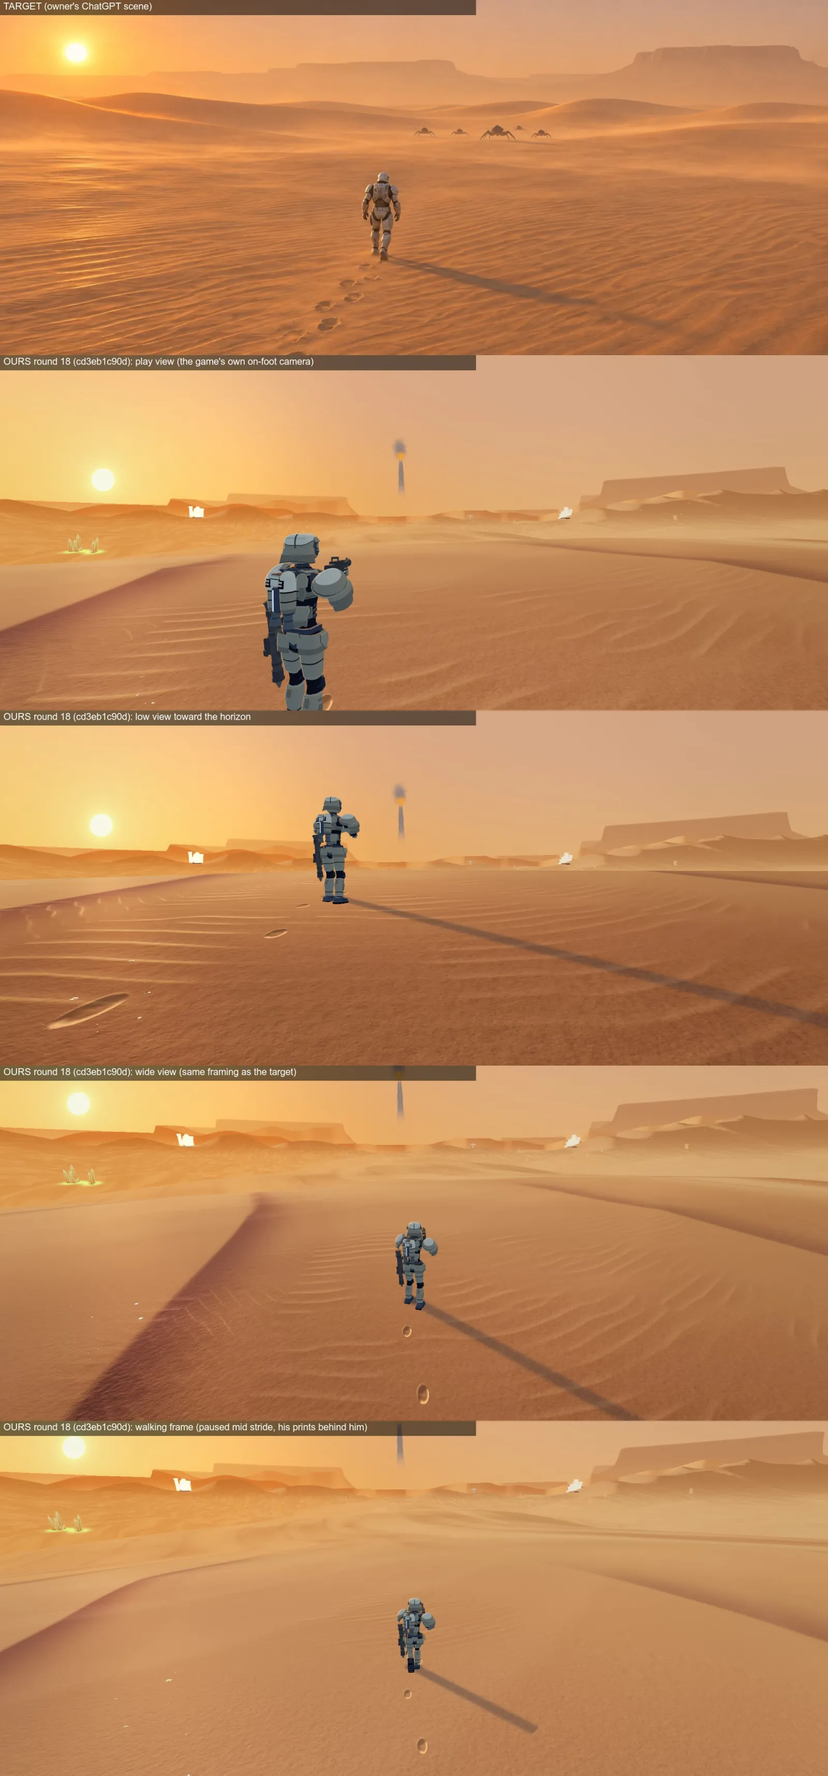
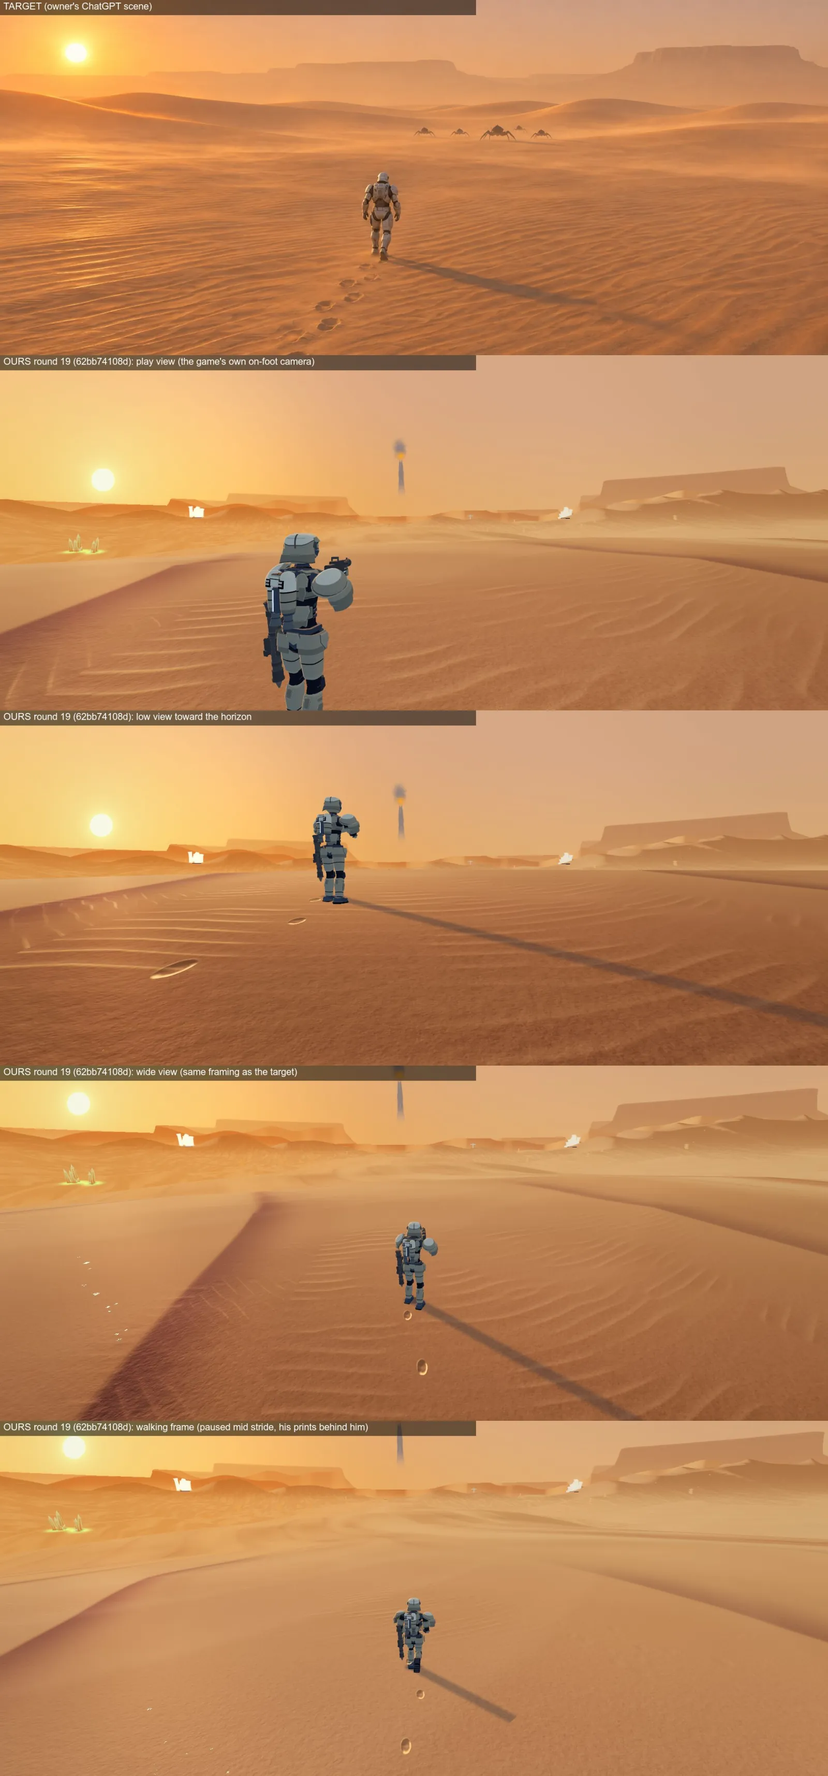
review page v195: Steel Tide: to review

diff --git a/d/steel-tide-clips-bb00109a/index.html b/d/steel-tide-clips-bb00109a/index.html
@@ -4,8 +4,8 @@
 <style>body{margin:0;background:#0d1117;color:#e6edf3;font:16px/1.5 -apple-system,system-ui,sans-serif}main{max-width:900px;margin:0 auto;padding:16px}h1{font-size:20px;margin:8px 0 4px}h2{font-size:17px;margin:34px 0 6px}p{margin:4px 0 10px;color:#9da7b3;font-size:14px}video,img{width:100%;height:auto;background:#000;border-radius:6px;display:block;margin-top:6px}a.b{display:inline-block;margin:8px 8px 0 0;padding:10px 14px;border:1px solid #3d444d;border-radius:6px;color:#e6edf3;text-decoration:none;font-size:14px}.t{font-size:12px;font-weight:400;color:#0d1117;background:#9da7b3;border-radius:10px;padding:2px 8px;margin-left:6px;vertical-align:middle}p.d{color:#7cb7ff;font-size:13px;margin:0 0 6px}nav small{color:#9da7b3;margin-left:6px}p b{color:#e6edf3}nav a{display:block;padding:7px 0;color:#7cb7ff;text-decoration:none;font-size:14px;border-bottom:1px solid #21262d}a.z{display:block;cursor:zoom-in}p.h{font-size:12px;margin:2px 0 8px}#lb{position:fixed;inset:0;background:#000;z-index:9;overflow:auto;display:none;cursor:zoom-in}#lb.on{display:block}#lb img{width:100%;height:100%;object-fit:contain;margin:0;border-radius:0;background:#000}#lb.big{cursor:zoom-out}#lb.big img{width:auto;height:auto;max-width:none;object-fit:none}#lbx{position:fixed;top:10px;right:14px;z-index:10;display:none;font:600 15px system-ui;color:#fff;background:#21262d;border:1px solid #3d444d;border-radius:6px;padding:8px 12px;cursor:pointer}#lb.on+#lbx{display:block}</style></head>
 <body><main>
 <h1>Steel Tide: to review</h1>
-<p>Version 194, 11-21 11:53 AM. 11-21 morning: everything rendered overnight that you had not seen: live sand, the sand work in progress, Petrel rounds 2 and 3, the hand cannons. Newest first. Total 84.3 MB.</p>
-<nav><a href="#petrel-wing-engine-redesign">Petrel: tiltwing + airstair (not in the game yet) <small>11-21 2:30 PM</small></a><a href="#desert-sand-r13-wip">Desert sand round 18 (not in the game yet) <small>11-21 11:53 AM</small></a><a href="#elevator-pilot-light">Station lift: the pilot goes dark with the ship (not in the game yet) <small>11-21 11:06 AM</small></a><a href="#petrel-airstair">Petrel: folding airstairs (not in the game yet) <small>11-21 10:44 AM</small></a><a href="#pilot-walk-sway">Pilot walk: half the side-to-side sway (before / after) <small>11-21 10:32 AM</small></a><a href="#unit-ground-shadows">Unit ground shadows back on (not live yet) <small>11-21 10:22 AM</small></a><a href="#extract-control-early">Extraction ending: control comes back as the hatch opens (not live yet) <small>11-21 10:10 AM</small></a><a href="#mech-hand-cannons">Mech hand cannons: OLD pull look (rejected), being replaced with the Singularity look <small>11-21 10:03 AM</small></a><a href="#desert-sand-live">Desert sand as it is live now (round 12), next to your target <small>11-21 9:53 AM</small></a><a href="#extraction-ending-elevator-up">Full extraction ending with the newest Petrel (live now) <small>11-21 9:50 AM</small></a><a href="#desert-sand-r11">Desert sand round 11: wavy ripple rows <small>11-21 9:37 AM</small></a><a href="#petrel-round3">Petrel ship: round 3, before and after (27 views) <small>11-21 9:37 AM</small></a><a href="#petrel-round2">Petrel ship: round 2, before and after <small>11-21 9:37 AM</small></a><a href="#leviathan-grabs-your-clone">Leviathan: a perfect dodge of the grab makes it bite your clone, then it is stunned <small>11-21 8:00 AM</small></a><a href="#pilot-base-hands">Pilot hands: same relaxed pose on both sides, new fingers <small>11-21 8:00 AM</small></a><a href="#pilot-tripo-attempt">Tripo pilot: new hands made by Tripo, attached to the same body <small>11-21 8:00 AM</small></a><a href="#pod-landing-m301">Drop pod landing (round 6, recorder fixed) <small>11-21 8:00 AM</small></a><a href="#hangar-pod-cradle">Hangar pod cradle: five locks, legs side by side, hatch closes as he lowers <small>11-21 8:00 AM</small></a><a href="#rocket-sentry-seated">Rocket sentry: the pilot sits in it, hands on the handle <small>11-21 8:00 AM</small></a><a href="#pod-landing-black-lines-removed">Pod landing: the huge black lines are removed <small>11-21 4:09 AM</small></a><a href="#dawn-time-of-day-preview">Dawn, a second time of day: for your yes or no (not in the game) <small>11-21 3:33 AM</small></a><a href="#hand-cannons-aoe-pull-blast">Heavy hand cannons: one hand pulls the pack in, the other fires two big slow blasts <small>11-21 3:20 AM</small></a><a href="#leviathan-reposition-no-slide">Leviathan: the body no longer slides when it turns <small>11-21 3:16 AM</small></a><a href="#hand-cannon-slice">Hand cannon combo, the proof slice (heavy blast, 1 second pull, F dive slam) <small>11-21 1:09 AM</small></a><a href="#weapon-icons-round-3">Weapon icons round 3: stylized from the real weapons, two directions <small>11-20 10:55 PM</small></a><a href="#desert-sand-direction">Desert sand: today against real sand (pick a direction) <small>11-20 10:51 PM</small></a><a href="#boss-shading-which-part">Your 8:00 PM report: which part of the boss looked wrong? <small>11-20 10:51 PM</small></a><a href="#pilot-ground-dash">Ground dash round 3: looser body, rifle holds its aim (clip, 8 directions) <small>11-20 10:41 PM</small></a><a href="#weapon-icons-pick">Weapon icons round 2: traced from the real gun models <small>11-20 5:36 PM</small></a><a href="#launch-sequence-live">Loading flight: side planets removed <small>11-20 5:26 PM</small></a><a href="#hangar-decompress">Hangar arrival: the mist clears right after you enter <small>11-20 5:01 PM</small></a><a href="#hangar-idle">Pilot idle in the hangar (round 2, looping) <small>11-20 5:01 PM</small></a><a href="#pilot-walk-run-m301">Pilot walk and run (export round 2) <small>11-20 5:01 PM</small></a><a href="#hangar-walk-run">Pilot walk and run in the hangar <small>11-20 5:01 PM</small></a><a href="#pod-boarding-no-clip">Hangar pod lowered, flat walk-in <small>11-20 5:01 PM</small></a><a href="#gravity-well-real-shots">Gravity well keeps each enemy shot&#x27;s own look <small>11-20 1:19 AM</small></a><a href="#pod-hatch-seals-first">Drop pod lowers only after the hatch is shut <small>11-20 1:19 AM</small></a><a href="#pilot-no-camera-lean">The pilot no longer leans when you tilt the camera <small>11-20 12:59 AM</small></a><a href="#ocean-ships-fewer">Ocean: 60 % fewer ships, wider spacing, hulks no longer overlap boats <small>11-20 12:59 AM</small></a><a href="#hangar-stairs-windows-vapor">Hangar: walkable stairs, space-only windows, leaking vapor <small>11-20 12:59 AM</small></a><a href="#drop-pod-no-hud">No HUD during the drop pod descent <small>11-20 12:59 AM</small></a><a href="#coop-join-as-pilot">Co-op: friends join as pilots beside you in the hangar <small>11-20 12:59 AM</small></a><a href="#new-mech-3d-r2">New mech: first 3D model from your sheet <small>11-19 11:21 PM</small></a><a href="#tactician-r2-s302-clean">Tactician pilot: your pick, smudges cleaned (ready to wire) <small>11-19 10:24 PM</small></a><a href="#vanguard-r2-s302">Vanguard pilot: your pick, six fingers fixed (ready to wire) <small>11-19 10:24 PM</small></a><a href="#engineer-ingame-first">Engineer pilot in the game (rough, live) <small>11-19 10:13 PM</small></a><a href="#cradle-jets-flames">Mothership engines on the launch flight <small>11-19 9:25 PM</small></a><a href="#mission-control-star-map">Mission Control star map with detailed planets <small>11-19 9:11 PM</small></a><a href="#island-kites-air">Island: Kites climb to a jetting pilot (and snipers aim ahead of him) <small>11-19 8:44 PM</small></a><a href="#petrel-seat-hold">Petrel: chest hold and real seats <small>11-19 4:25 PM</small></a><a href="#island-scuttle">Island enemy: Scuttle <small>11-19 3:40 PM</small></a><a href="#island-thresh">Island enemy: Thresh <small>11-19 3:40 PM</small></a><a href="#island-maul">Island enemy: Maul <small>11-19 3:40 PM</small></a><a href="#island-kite">Island enemy: Kite <small>11-19 3:40 PM</small></a><a href="#island-haul">Island enemy: Haul <small>11-19 3:40 PM</small></a><a href="#island-coil">Island enemy: Coil <small>11-19 3:40 PM</small></a><a href="#island-bloom">Island enemy: Bloom <small>11-19 3:40 PM</small></a><a href="#island-lagoon-sniper">Island enemy: Lagoon Sniper <small>11-19 3:40 PM</small></a><a href="#island-lagoon-lobber">Island enemy: Lagoon Lobber <small>11-19 3:40 PM</small></a><a href="#island-heave">Island enemy: Heave <small>11-19 3:40 PM</small></a><a href="#island-roost">Island enemy: Roost (the Widow) <small>11-19 3:40 PM</small></a><a href="#island-noose">Island enemy: Noose <small>11-19 3:40 PM</small></a><a href="#island-brine">Island enemy: Brine <small>11-19 3:40 PM</small></a><a href="#island-rift">Island enemy: Rift <small>11-19 3:40 PM</small></a><a href="#island-quill">Island enemy: Quill <small>11-19 3:40 PM</small></a><a href="#island-drum">Island enemy: Drum <small>11-19 3:40 PM</small></a><a href="#island-tusk">Island enemy: Tusk <small>11-19 3:40 PM</small></a><a href="#hangar-jets-every-press">Hangar jets on every Space tap and Shift dash <small>11-19 3:30 PM</small></a><a href="#pistol-holster">Pistol stays in its holster until you aim <small>11-19 3:00 PM</small></a><a href="#loading-no-counts">Loading screen shows only the step and the bar <small>11-19 2:30 PM</small></a><a href="#hangar-globe-fix">Hangar globe turns on its own, with the target marks removed <small>11-19 1:50 PM</small></a><a href="#petrel-seat-facing">Petrel: the seated pilot faces the way his seat faces <small>11-19 1:20 PM</small></a><a href="#mission-control-planets">Mission Control: pick a planet first, then start <small>11-19 12:07 PM</small></a><a href="#hangar-station-screens">Hangar station screens <small>11-19 12:07 PM</small></a><a href="#pilot-drop-pod-boarding">Pilot climbs into the drop pod <small>11-19 10:40 AM</small></a><a href="#hangar-laser-tag">Hangar laser tag <small>11-19 1:22 AM</small></a><a href="#mission-control-prop">Mission Control: the holo globe table <small>11-19 1:05 AM</small></a><a href="#hangar-drop-pod-marker">Drop pod marker in the hangar <small>11-19 12:50 AM</small></a><a href="#hangar-real-in-game">The real hangar, walked in the game <small>11-18 9:30 PM</small></a><a href="#cradle-drop-launch-r4">NEEDS YOUR PICK: the drop cannon&#x27;s size on the Cradle (three sizes), with its back hidden and navy colour <small>11-18 7:43 PM</small></a><a href="#stage4-terrain-and-base">Stage 4, the new-planet loop: parts built, not playable yet <small>11-18 7:29 PM</small></a><a href="#ocean-titan-bar-below">NEEDS YOUR EYE: Ocean Titan now uses the Strider&#x27;s camera (low, behind, horizon in view) <small>11-18 6:46 PM</small></a><a href="#titan-hud-unify">One lock ring, one Titan armor bar, cooldown icons instead of status text (first pass) <small>11-18 6:41 PM</small></a><a href="#cradle-hull-r4">The Cradle mothership, round 4: cannon moved under the stern, darker landing pad <small>11-18 5:15 PM</small></a><a href="#island-fliers-low">Red fliers over the island: fewer, and they creep instead of parking <small>11-18 12:30 AM</small></a><a href="#horde-pilot-zoom">NEEDS YOUR CALL: island Horde, camera zooms in when you are on foot <small>11-17 1:30 PM</small></a></nav>
+<p>Version 195, 11-21 12:03 PM. 11-21 morning: everything rendered overnight that you had not seen: live sand, the sand work in progress, Petrel rounds 2 and 3, the hand cannons. Newest first. Total 84.9 MB.</p>
+<nav><a href="#petrel-wing-engine-redesign">Petrel: tiltwing + airstair (not in the game yet) <small>11-21 2:30 PM</small></a><a href="#desert-sand-r13-wip">Desert sand round 19 (not in the game yet) <small>11-21 12:03 PM</small></a><a href="#elevator-pilot-light">Station lift: the pilot goes dark with the ship (not in the game yet) <small>11-21 11:06 AM</small></a><a href="#petrel-airstair">Petrel: folding airstairs (not in the game yet) <small>11-21 10:44 AM</small></a><a href="#pilot-walk-sway">Pilot walk: half the side-to-side sway (before / after) <small>11-21 10:32 AM</small></a><a href="#unit-ground-shadows">Unit ground shadows back on (not live yet) <small>11-21 10:22 AM</small></a><a href="#extract-control-early">Extraction ending: control comes back as the hatch opens (not live yet) <small>11-21 10:10 AM</small></a><a href="#mech-hand-cannons">Mech hand cannons: OLD pull look (rejected), being replaced with the Singularity look <small>11-21 10:03 AM</small></a><a href="#desert-sand-live">Desert sand as it is live now (round 12), next to your target <small>11-21 9:53 AM</small></a><a href="#extraction-ending-elevator-up">Full extraction ending with the newest Petrel (live now) <small>11-21 9:50 AM</small></a><a href="#desert-sand-r11">Desert sand round 11: wavy ripple rows <small>11-21 9:37 AM</small></a><a href="#petrel-round3">Petrel ship: round 3, before and after (27 views) <small>11-21 9:37 AM</small></a><a href="#petrel-round2">Petrel ship: round 2, before and after <small>11-21 9:37 AM</small></a><a href="#leviathan-grabs-your-clone">Leviathan: a perfect dodge of the grab makes it bite your clone, then it is stunned <small>11-21 8:00 AM</small></a><a href="#pilot-base-hands">Pilot hands: same relaxed pose on both sides, new fingers <small>11-21 8:00 AM</small></a><a href="#pilot-tripo-attempt">Tripo pilot: new hands made by Tripo, attached to the same body <small>11-21 8:00 AM</small></a><a href="#pod-landing-m301">Drop pod landing (round 6, recorder fixed) <small>11-21 8:00 AM</small></a><a href="#hangar-pod-cradle">Hangar pod cradle: five locks, legs side by side, hatch closes as he lowers <small>11-21 8:00 AM</small></a><a href="#rocket-sentry-seated">Rocket sentry: the pilot sits in it, hands on the handle <small>11-21 8:00 AM</small></a><a href="#pod-landing-black-lines-removed">Pod landing: the huge black lines are removed <small>11-21 4:09 AM</small></a><a href="#dawn-time-of-day-preview">Dawn, a second time of day: for your yes or no (not in the game) <small>11-21 3:33 AM</small></a><a href="#hand-cannons-aoe-pull-blast">Heavy hand cannons: one hand pulls the pack in, the other fires two big slow blasts <small>11-21 3:20 AM</small></a><a href="#leviathan-reposition-no-slide">Leviathan: the body no longer slides when it turns <small>11-21 3:16 AM</small></a><a href="#hand-cannon-slice">Hand cannon combo, the proof slice (heavy blast, 1 second pull, F dive slam) <small>11-21 1:09 AM</small></a><a href="#weapon-icons-round-3">Weapon icons round 3: stylized from the real weapons, two directions <small>11-20 10:55 PM</small></a><a href="#desert-sand-direction">Desert sand: today against real sand (pick a direction) <small>11-20 10:51 PM</small></a><a href="#boss-shading-which-part">Your 8:00 PM report: which part of the boss looked wrong? <small>11-20 10:51 PM</small></a><a href="#pilot-ground-dash">Ground dash round 3: looser body, rifle holds its aim (clip, 8 directions) <small>11-20 10:41 PM</small></a><a href="#weapon-icons-pick">Weapon icons round 2: traced from the real gun models <small>11-20 5:36 PM</small></a><a href="#launch-sequence-live">Loading flight: side planets removed <small>11-20 5:26 PM</small></a><a href="#hangar-decompress">Hangar arrival: the mist clears right after you enter <small>11-20 5:01 PM</small></a><a href="#hangar-idle">Pilot idle in the hangar (round 2, looping) <small>11-20 5:01 PM</small></a><a href="#pilot-walk-run-m301">Pilot walk and run (export round 2) <small>11-20 5:01 PM</small></a><a href="#hangar-walk-run">Pilot walk and run in the hangar <small>11-20 5:01 PM</small></a><a href="#pod-boarding-no-clip">Hangar pod lowered, flat walk-in <small>11-20 5:01 PM</small></a><a href="#gravity-well-real-shots">Gravity well keeps each enemy shot&#x27;s own look <small>11-20 1:19 AM</small></a><a href="#pod-hatch-seals-first">Drop pod lowers only after the hatch is shut <small>11-20 1:19 AM</small></a><a href="#pilot-no-camera-lean">The pilot no longer leans when you tilt the camera <small>11-20 12:59 AM</small></a><a href="#ocean-ships-fewer">Ocean: 60 % fewer ships, wider spacing, hulks no longer overlap boats <small>11-20 12:59 AM</small></a><a href="#hangar-stairs-windows-vapor">Hangar: walkable stairs, space-only windows, leaking vapor <small>11-20 12:59 AM</small></a><a href="#drop-pod-no-hud">No HUD during the drop pod descent <small>11-20 12:59 AM</small></a><a href="#coop-join-as-pilot">Co-op: friends join as pilots beside you in the hangar <small>11-20 12:59 AM</small></a><a href="#new-mech-3d-r2">New mech: first 3D model from your sheet <small>11-19 11:21 PM</small></a><a href="#tactician-r2-s302-clean">Tactician pilot: your pick, smudges cleaned (ready to wire) <small>11-19 10:24 PM</small></a><a href="#vanguard-r2-s302">Vanguard pilot: your pick, six fingers fixed (ready to wire) <small>11-19 10:24 PM</small></a><a href="#engineer-ingame-first">Engineer pilot in the game (rough, live) <small>11-19 10:13 PM</small></a><a href="#cradle-jets-flames">Mothership engines on the launch flight <small>11-19 9:25 PM</small></a><a href="#mission-control-star-map">Mission Control star map with detailed planets <small>11-19 9:11 PM</small></a><a href="#island-kites-air">Island: Kites climb to a jetting pilot (and snipers aim ahead of him) <small>11-19 8:44 PM</small></a><a href="#petrel-seat-hold">Petrel: chest hold and real seats <small>11-19 4:25 PM</small></a><a href="#island-scuttle">Island enemy: Scuttle <small>11-19 3:40 PM</small></a><a href="#island-thresh">Island enemy: Thresh <small>11-19 3:40 PM</small></a><a href="#island-maul">Island enemy: Maul <small>11-19 3:40 PM</small></a><a href="#island-kite">Island enemy: Kite <small>11-19 3:40 PM</small></a><a href="#island-haul">Island enemy: Haul <small>11-19 3:40 PM</small></a><a href="#island-coil">Island enemy: Coil <small>11-19 3:40 PM</small></a><a href="#island-bloom">Island enemy: Bloom <small>11-19 3:40 PM</small></a><a href="#island-lagoon-sniper">Island enemy: Lagoon Sniper <small>11-19 3:40 PM</small></a><a href="#island-lagoon-lobber">Island enemy: Lagoon Lobber <small>11-19 3:40 PM</small></a><a href="#island-heave">Island enemy: Heave <small>11-19 3:40 PM</small></a><a href="#island-roost">Island enemy: Roost (the Widow) <small>11-19 3:40 PM</small></a><a href="#island-noose">Island enemy: Noose <small>11-19 3:40 PM</small></a><a href="#island-brine">Island enemy: Brine <small>11-19 3:40 PM</small></a><a href="#island-rift">Island enemy: Rift <small>11-19 3:40 PM</small></a><a href="#island-quill">Island enemy: Quill <small>11-19 3:40 PM</small></a><a href="#island-drum">Island enemy: Drum <small>11-19 3:40 PM</small></a><a href="#island-tusk">Island enemy: Tusk <small>11-19 3:40 PM</small></a><a href="#hangar-jets-every-press">Hangar jets on every Space tap and Shift dash <small>11-19 3:30 PM</small></a><a href="#pistol-holster">Pistol stays in its holster until you aim <small>11-19 3:00 PM</small></a><a href="#loading-no-counts">Loading screen shows only the step and the bar <small>11-19 2:30 PM</small></a><a href="#hangar-globe-fix">Hangar globe turns on its own, with the target marks removed <small>11-19 1:50 PM</small></a><a href="#petrel-seat-facing">Petrel: the seated pilot faces the way his seat faces <small>11-19 1:20 PM</small></a><a href="#mission-control-planets">Mission Control: pick a planet first, then start <small>11-19 12:07 PM</small></a><a href="#hangar-station-screens">Hangar station screens <small>11-19 12:07 PM</small></a><a href="#pilot-drop-pod-boarding">Pilot climbs into the drop pod <small>11-19 10:40 AM</small></a><a href="#hangar-laser-tag">Hangar laser tag <small>11-19 1:22 AM</small></a><a href="#mission-control-prop">Mission Control: the holo globe table <small>11-19 1:05 AM</small></a><a href="#hangar-drop-pod-marker">Drop pod marker in the hangar <small>11-19 12:50 AM</small></a><a href="#hangar-real-in-game">The real hangar, walked in the game <small>11-18 9:30 PM</small></a><a href="#cradle-drop-launch-r4">NEEDS YOUR PICK: the drop cannon&#x27;s size on the Cradle (three sizes), with its back hidden and navy colour <small>11-18 7:43 PM</small></a><a href="#stage4-terrain-and-base">Stage 4, the new-planet loop: parts built, not playable yet <small>11-18 7:29 PM</small></a><a href="#ocean-titan-bar-below">NEEDS YOUR EYE: Ocean Titan now uses the Strider&#x27;s camera (low, behind, horizon in view) <small>11-18 6:46 PM</small></a><a href="#titan-hud-unify">One lock ring, one Titan armor bar, cooldown icons instead of status text (first pass) <small>11-18 6:41 PM</small></a><a href="#cradle-hull-r4">The Cradle mothership, round 4: cannon moved under the stern, darker landing pad <small>11-18 5:15 PM</small></a><a href="#island-fliers-low">Red fliers over the island: fewer, and they creep instead of parking <small>11-18 12:30 AM</small></a><a href="#horde-pilot-zoom">NEEDS YOUR CALL: island Horde, camera zooms in when you are on foot <small>11-17 1:30 PM</small></a></nav>
 <section id="petrel-wing-engine-redesign"><h2>Petrel: tiltwing + airstair (not in the game yet) <span class="t">built, not live</span></h2>
 <p class="d">Updated 11-21 2:30 PM ET &middot; captured from lane build f3a298441a (tiltwing + airstair merged) vs Dock d7deeea3bf</p>
 <p><b>What changed:</b> Now in the real game cameras, with the new airstair merged in: wing and jet tilt as one unit, upright when landed and in the hangar, flat in flight; the stairs clear the jets at every tilt.</p>
@@ -15,11 +15,12 @@
 <video controls playsinline muted preload="none" poster="petrel-wing-engine-redesign-1.webp" data-fb="petrel-wing-engine-redesign"><source src="petrel-wing-engine-redesign.mp4" type="video/mp4"></video>
 <div class="fb" data-id="petrel-wing-engine-redesign" data-title="Petrel: tiltwing + airstair (not in the game yet)"><p class="h">Pause the video at any moment to write a note for that second.</p><div class="fbbox" hidden><b class="fbt"></b><textarea rows="3" placeholder="Your feedback at this moment"></textarea><button class="fbsave">Save and keep playing</button><button class="fbcancel">Cancel</button></div><ol class="fblist"></ol><button class="fbexp">Export feedback</button><div class="fbout" hidden><textarea rows="8" readonly></textarea><button class="fbcopy">Copy</button><span class="fbok"></span></div></div>
 <a class="b" href="petrel-wing-engine-redesign.mp4">Open the video on its own (1.7 MB)</a></section>
-<section id="desert-sand-r13-wip"><h2>Desert sand round 18 (not in the game yet) <span class="t">built, not live</span></h2>
-<p class="d">Updated 11-21 11:53 AM ET &middot; captured from lane build GROUND-SAND-R18-1121</p>
-<p><b>What changed:</b> The shaded side of each dune no longer looks like a flat dark shadow: it is darkest just under the crest and fades out toward the bottom of the slope, picks up a little cool sky light, and the ripples still show inside it. Crest lines wander instead of running ruler straight. Sun glints are a little larger so they survive a scaled-down screen, and only show on sunlit sand. Footprints are larger.</p>
-<p><b>Where to look:</b> Play and wide views: the shaded dune sides next to the pilot; the top picture is your target.</p>
-<a class="z" href="desert-sand-r13-wip-1-full.webp"><img loading="lazy" src="desert-sand-r13-wip-1.webp" alt="Desert sand round 18 (not in the game yet)"></a><p class="h">Click the image for full screen, click again for full size.</p></section>
+<section id="desert-sand-r13-wip"><h2>Desert sand round 19 (not in the game yet) <span class="t">built, not live</span></h2>
+<p class="d">Updated 11-21 12:03 PM ET &middot; captured from lane build GROUND-SAND-R18-1121</p>
+<p><b>What changed:</b> The shaded side of each dune now fades from darkest just under the crest to almost nothing at the bottom of the slope, with a little cool sky light and the ripples still showing inside it, so it reads as a dune slope, not a cast shadow. Crest lines wander. Footprints are bigger, with a brighter far edge, so they read as dents at play distance. Sun glints are a little larger and only show on sunlit sand.</p>
+<p><b>Where to look:</b> Play, wide and walking views: the shaded dune sides and the footprints behind the pilot; the top picture is your target.</p>
+<a class="z" href="desert-sand-r13-wip-1-full.webp"><img loading="lazy" src="desert-sand-r13-wip-1.webp" alt="Desert sand round 19 (not in the game yet)"></a><p class="h">Click the image for full screen, click again for full size.</p>
+<a class="z" href="desert-sand-r13-wip-2-full.webp"><img loading="lazy" src="desert-sand-r13-wip-2.webp" alt="Desert sand round 19 (not in the game yet)"></a><p class="h">Click the image for full screen, click again for full size.</p></section>
 <section id="elevator-pilot-light"><h2>Station lift: the pilot goes dark with the ship (not in the game yet) <span class="t">built, not live</span></h2>
 <p class="d">Updated 11-21 11:06 AM ET &middot; captured from lane build ELEVATOR-PILOT-LIGHT-1121 on Dock (BEFORE = Dock, same shot, same camera)</p>
 <p><b>What changed:</b> In the lift shaft the pilot was fully lit alone in the black; he now takes the same shaft darkening as the ship and the room, for you and co-op pilots.</p>
